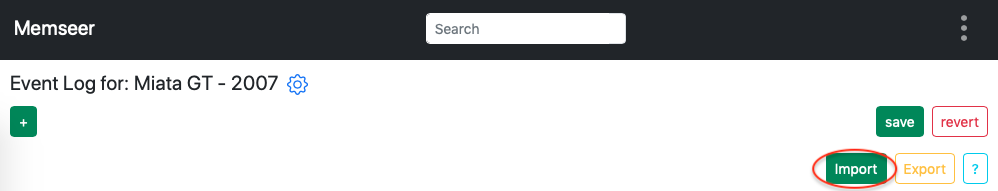
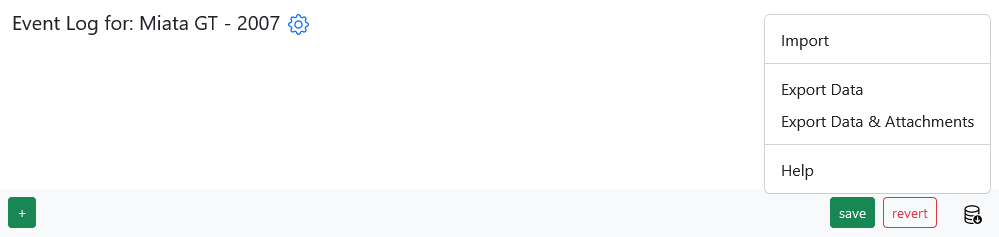
Pic changed

diff --git a/docs/guides/data_management.md b/docs/guides/data_management.md
@@ -29,11 +29,11 @@ In order to export your item, go to dashboard, find desired item and click edit 
 
 ![](../../assets/images/guides/import_export/item_settings_gear.png)
 
-Next scroll all the way to the bottom of the page and find "Export" button on the right side.
+Next scroll all the way to the bottom of the page and find "Export Data" button on the right side.
 
 ![](../../assets/images/guides/import_export/item_settings_export.png)
 
-Click "Export" and item file will be saved to your device under item's name, for example:\
+Click "Export Data" and item file will be saved to your device under item's name, for example:\
 `Miata GT.json`
 
 
@@ -64,11 +64,11 @@ To export events, navigate to the dashboard and locate the desired item. Click o
 
 ![](../../assets/images/guides/import_export/item_events.png)
 
-Next, scroll to the bottom of the page and find the "Export" button on the right side.
+Next, scroll to the bottom of the page and find the "Export Data" button on the right side.
 
 ![](../../assets/images/guides/import_export/events_export.png)
 
-Click "Export", then select "Data". The events file will be saved to your device under the item's name, for example:
+Click "Export Data". The events file will be saved to your device under the item's name, for example:
 `Miata GT.csv`
 
 #### Exporting Events with Attachments
@@ -77,11 +77,11 @@ To export events with attachments, go to the dashboard, find the desired item, a
 
 ![](../../assets/images/guides/import_export/item_events.png)
 
-Then, scroll to the bottom of the page and locate the "Export" button on the right side.
+Then, scroll to the bottom of the page and locate the "Export Data & Attachments" button on the right side.
 
-![](../../assets/images/guides/import_export/events_and_attachment_export.png)
+![](../../assets/images/guides/import_export/events_export.png)
 
-Click "Export", then choose "Data & Attachments". A zip file will be saved to your device under the item's name, for example:
+Click "Export Data & Attachments". A zip file will be saved to your device under the item's name, for example:
 `Miata GT.zip`. This archive will contain `Miata GT.csv` along with all attached files. 
 
 ### Import
